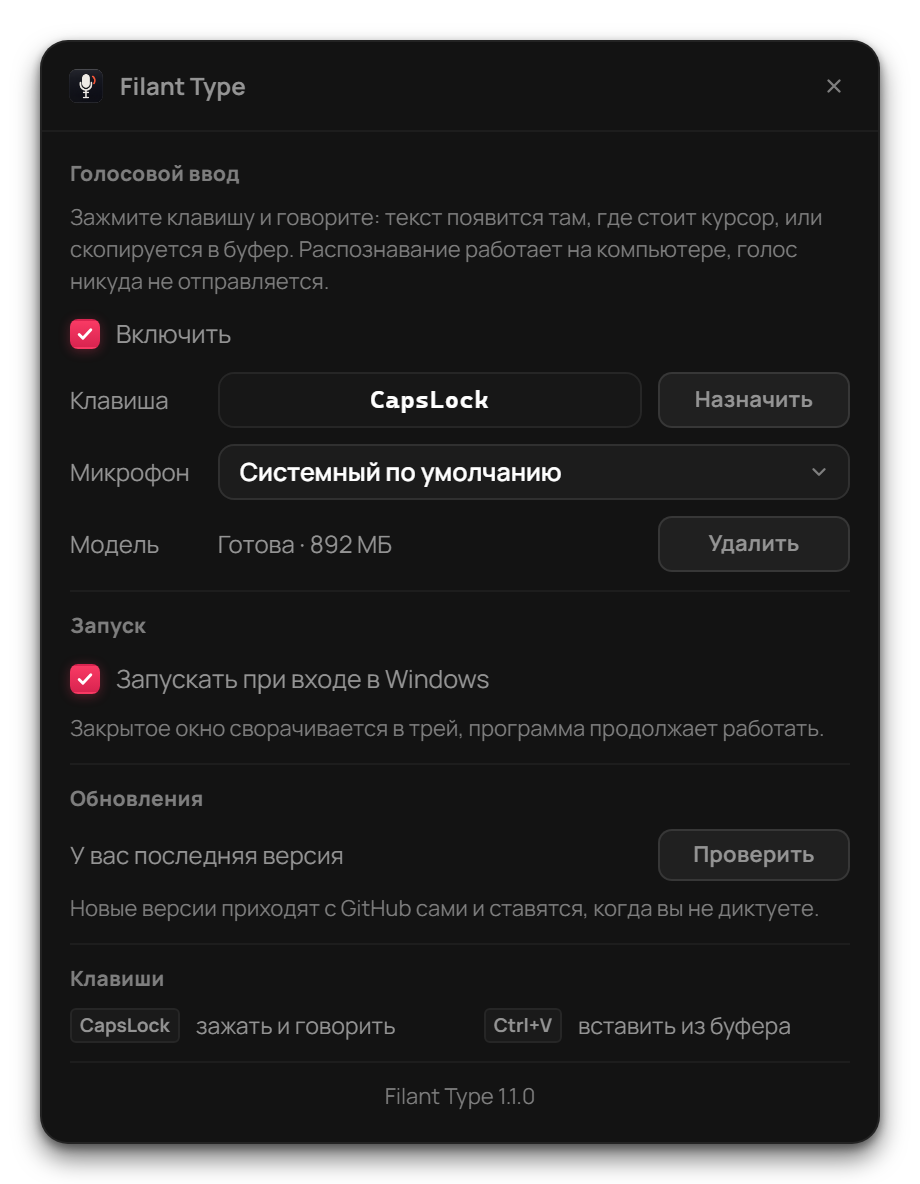
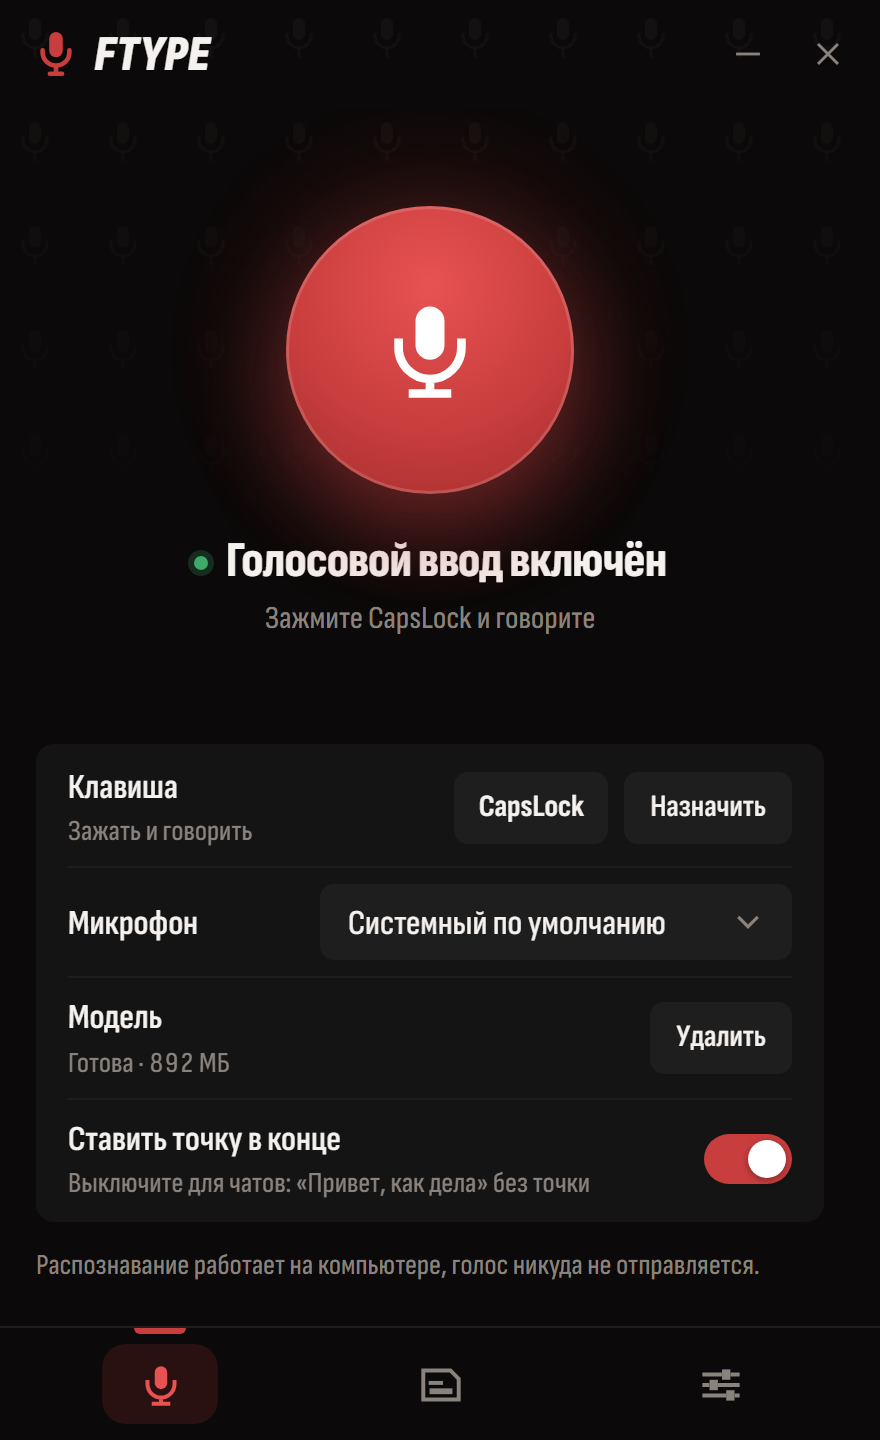
Страница ftype: новое имя, цвета и снимок окна
Filant Type теперь ftype (1.3.0). Название, значок и снимок окна заменены,
палитра взята из программы, кнопка ведёт на ftype-Setup.exe.

diff --git a/docs/index.html b/docs/index.html
@@ -3,16 +3,16 @@
   <head>
     <meta charset="utf-8" />
     <meta name="viewport" content="width=device-width, initial-scale=1" />
-    <title>Filant Type</title>
+    <title>ftype</title>
     <meta name="description" content="Голосовой ввод по клавише для Windows. Зажмите клавишу, скажите фразу, отпустите: текст появится там, где стоит курсор. Распознавание без интернета." />
-    <meta property="og:title" content="Filant Type" />
+    <meta property="og:title" content="ftype" />
     <meta property="og:description" content="Голосовой ввод по клавише для Windows. Распознавание на вашем компьютере, без интернета." />
     <meta property="og:image" content="assets/settings@2x.png" />
     <link rel="icon" type="image/png" href="assets/favicon.png" />
     <style>
       /*
-       * Filant Type's download page, in the look of the app itself (Majestic Helper's palette:
-       * a flat neutral ramp and one red). Dark only, as the app is.
+       * ftype's download page, in the colours of the app itself (flag's palette: a warm
+       * near-black ramp and one red). Dark only, as the app is.
        */
       @font-face {
         font-family: 'Manrope';
@@ -33,20 +33,20 @@
 
       :root {
         color-scheme: dark;
-        --page: #0e0e0e;
-        --bg: #131313;
-        --surface: #171717;
-        --surface-2: #1a1a1a;
-        --line: #262626;
-        --line-soft: #1d1d1d;
-        --text: #f4f4f4;
-        --text-2: #a3a3a3;
-        --text-3: #8a8a8a;
-        --brand: #f93a64;
-        --brand-rgb: 249, 58, 100;
-        --brand-deep: #d92450;
-        --brand-lift: #ff5f83;
-        --green-text: #45cd63;
+        --page: #0b0909;
+        --bg: #141414;
+        --surface: #1a1919;
+        --surface-2: #1e1e1e;
+        --line: #2a2a2a;
+        --line-soft: #1e1e1e;
+        --text: #f4f1ee;
+        --text-2: #a39b95;
+        --text-3: #8a827c;
+        --brand: #c83d3d;
+        --brand-rgb: 200, 61, 61;
+        --brand-deep: #a42e2e;
+        --brand-lift: #e85252;
+        --green-text: #3daa6a;
         --ease: cubic-bezier(0.16, 1, 0.3, 1);
         --font: 'Manrope', 'Segoe UI', system-ui, sans-serif;
         --mono: 'Cascadia Mono', Consolas, monospace;
@@ -120,7 +120,7 @@
       /* ───────────── Hero ───────────── */
       .hero {
         display: grid;
-        grid-template-columns: minmax(0, 1fr) minmax(0, 460px);
+        grid-template-columns: minmax(0, 1fr) minmax(0, 380px);
         align-items: center;
         gap: 56px;
         padding: 48px 0 88px;
@@ -199,13 +199,18 @@
         position: relative;
         justify-self: end;
         width: 100%;
-        max-width: 460px;
+        max-width: 380px;
         animation: rise 0.7s 0.08s var(--ease) both;
       }
+      /* The window as it is on screen: Windows rounds its corners and gives it the shadow. */
       .shot img {
         display: block;
         width: 100%;
         height: auto;
+        border-radius: 10px;
+        box-shadow:
+          0 0 0 1px rgba(255, 255, 255, 0.07),
+          0 24px 60px rgba(0, 0, 0, 0.55);
       }
       /* The app's own glow: a wash of its red behind the window. */
       .shot::before {
@@ -496,7 +501,7 @@
       <header class="top">
         <a class="brand" href="./">
           <img src="assets/icon.png" alt="" width="30" height="30" />
-          Filant Type
+          ftype
         </a>
         <a class="toplink" href="https://github.com/F1LANT/filant-type/releases">Все версии</a>
       </header>
@@ -509,12 +514,12 @@
               Зажмите клавишу и скажите фразу. Отпустите, и текст появится там, где стоит курсор.
             </p>
             <div class="actions">
-              <a class="btn" href="https://github.com/F1LANT/filant-type/releases/latest/download/FilantType-Setup.exe" data-download>Скачать для Windows</a>
+              <a class="btn" href="https://github.com/F1LANT/filant-type/releases/latest/download/ftype-Setup.exe" data-download>Скачать для Windows</a>
               <a class="btn btn--ghost" href="#install">Как установить</a>
             </div>
           </div>
           <div class="shot">
-            <img src="assets/settings@2x.png" width="460" height="592" alt="Окно настроек Filant Type: клавиша CapsLock, микрофон, модель готова" />
+            <img src="assets/settings@2x.png" width="440" height="720" alt="Окно ftype: голосовой ввод включён, клавиша CapsLock, микрофон, модель готова" />
           </div>
         </div>
 
@@ -600,7 +605,7 @@
                 </li>
                 <li>
                   <span>
-                    Зажмите <b>CapsLock</b> и говорите. Если игра запущена от администратора, запустите Filant Type
+                    Зажмите <b>CapsLock</b> и говорите. Если игра запущена от администратора, запустите ftype
                     тоже от администратора, иначе Windows не передаст ему нажатия.
                   </span>
                 </li>
@@ -614,7 +619,7 @@
                 <li><span>Диск</span><span>1 ГБ</span></li>
                 <li><span>Версия</span><span data-version>последняя</span></li>
               </ul>
-              <a class="btn" href="https://github.com/F1LANT/filant-type/releases/latest/download/FilantType-Setup.exe" data-download>Скачать для Windows</a>
+              <a class="btn" href="https://github.com/F1LANT/filant-type/releases/latest/download/ftype-Setup.exe" data-download>Скачать для Windows</a>
               <p class="card__note" data-size>Установщик около 16&nbsp;МБ</p>
             </aside>
           </div>
@@ -624,7 +629,7 @@
 
     <footer>
       <div class="wrap">
-        <span>Filant Type</span>
+        <span>ftype</span>
         <a href="https://github.com/F1LANT/filant-type/releases">Релизы на GitHub</a>
       </div>
     </footer>
@@ -636,7 +641,7 @@
         .then((release) => {
           if (!release) return
           const version = String(release.tag_name || '').replace(/^v/, '')
-          const asset = (release.assets || []).find((a) => a.name === 'FilantType-Setup.exe')
+          const asset = (release.assets || []).find((a) => a.name === 'ftype-Setup.exe')
           if (version) document.querySelectorAll('[data-version]').forEach((el) => (el.textContent = version))
           if (asset) {
             const mb = Math.round(asset.size / 1e6)

diff --git a/README.md b/README.md
@@ -1,4 +1,4 @@
-# Filant Type
+# ftype
 
 Голосовой ввод по клавише для Windows. Зажмите клавишу (по умолчанию CapsLock), скажите фразу,
 отпустите: текст появится там, где стоит курсор, а если поля ввода нет, окажется в буфере обмена.
@@ -6,7 +6,7 @@
 Распознавание работает на вашем компьютере (модель GigaAM v3 от Сбера): голос и текст никуда не
 отправляются. Интернет нужен один раз, чтобы скачать модель (892 МБ).
 
-**[Скачать для Windows](https://github.com/F1LANT/filant-type/releases/latest/download/FilantType-Setup.exe)** ·
+**[Скачать для Windows](https://github.com/F1LANT/filant-type/releases/latest/download/ftype-Setup.exe)** ·
 [страница с инструкцией](https://f1lant.github.io/filant-type/) ·
 [все версии](https://github.com/F1LANT/filant-type/releases)
 
